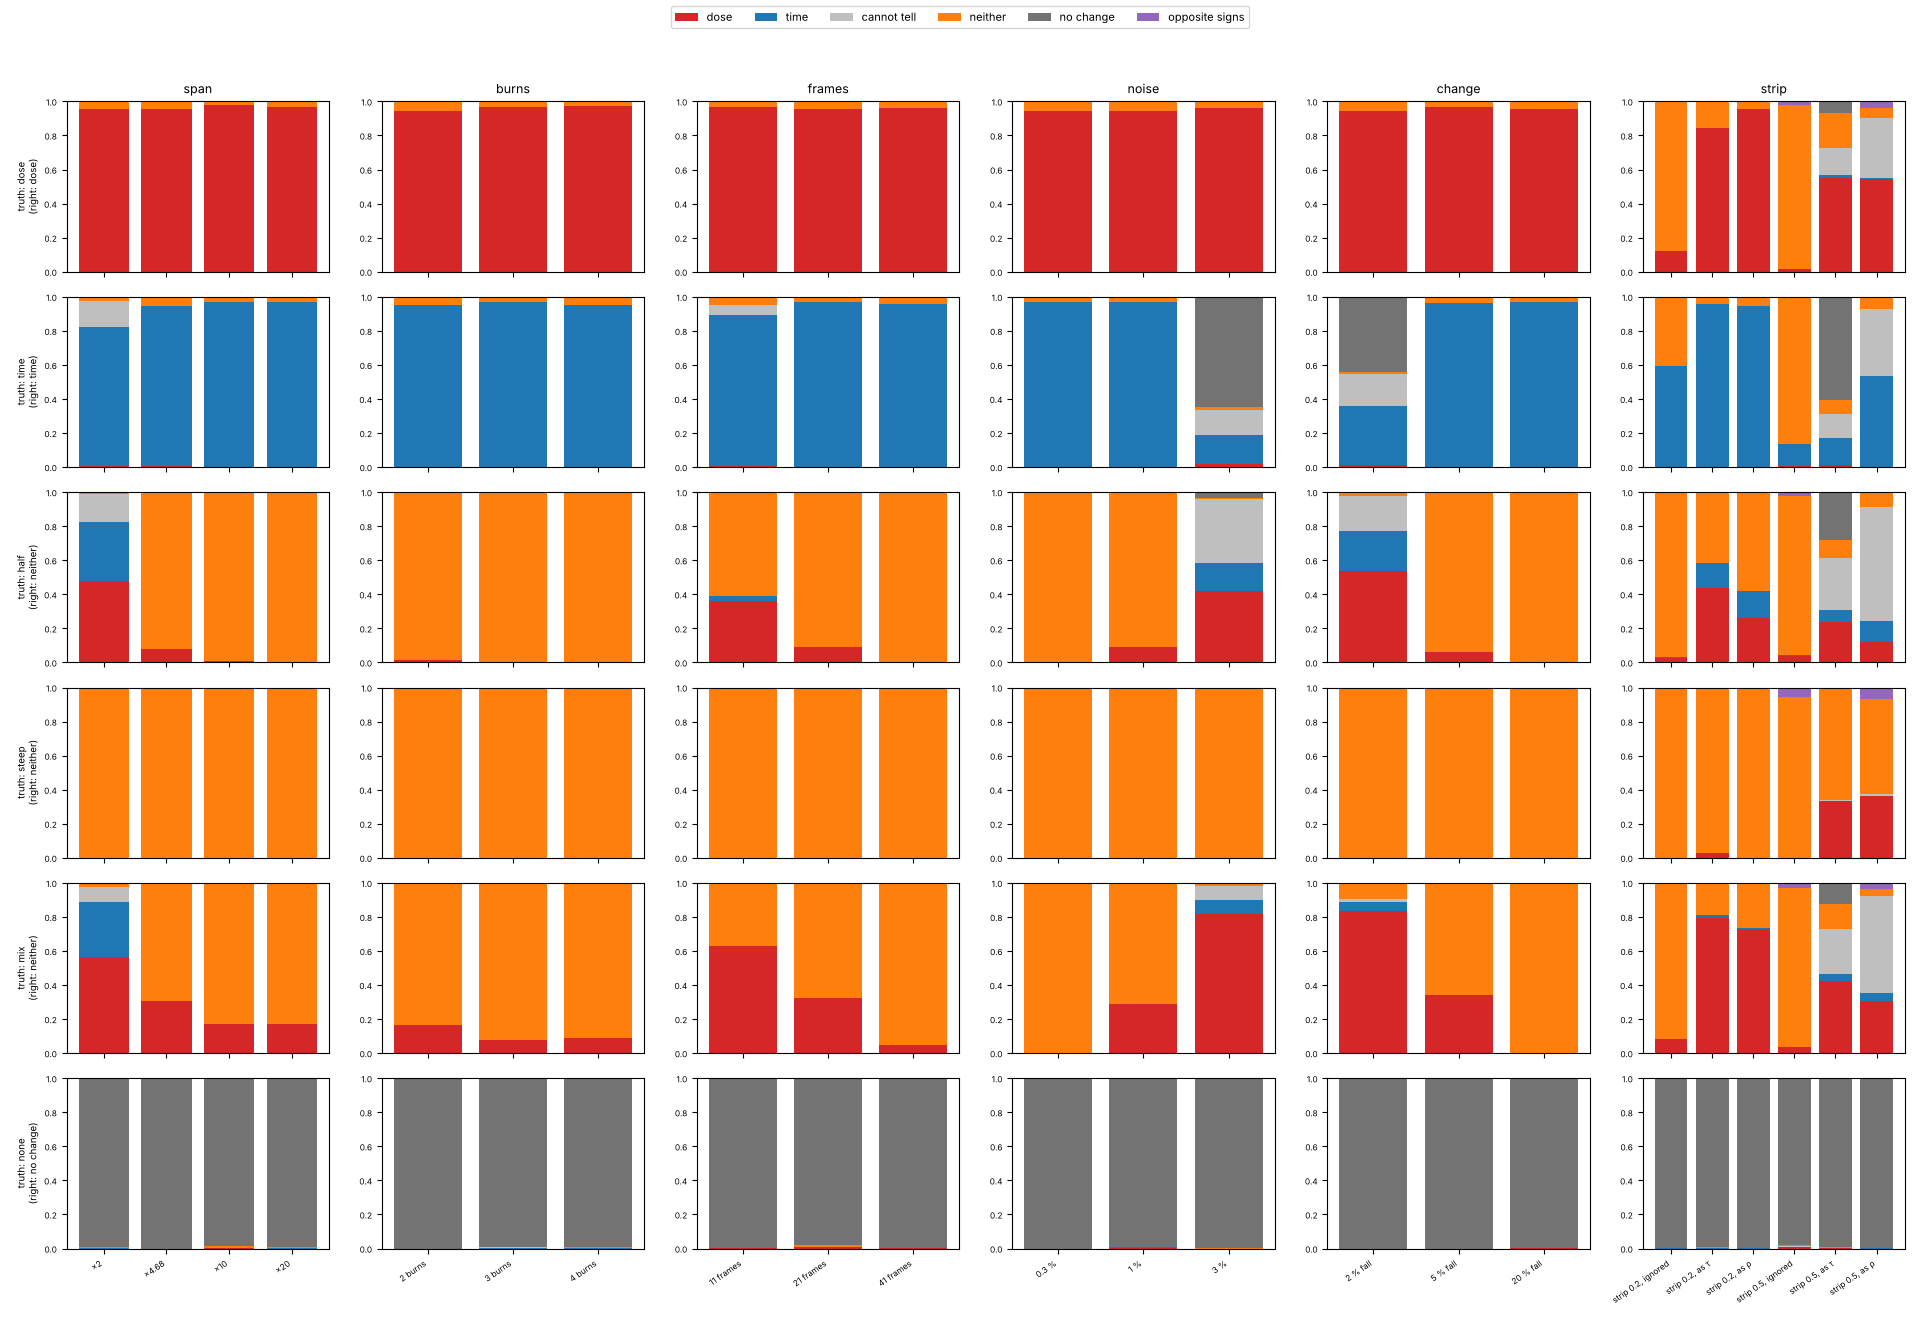
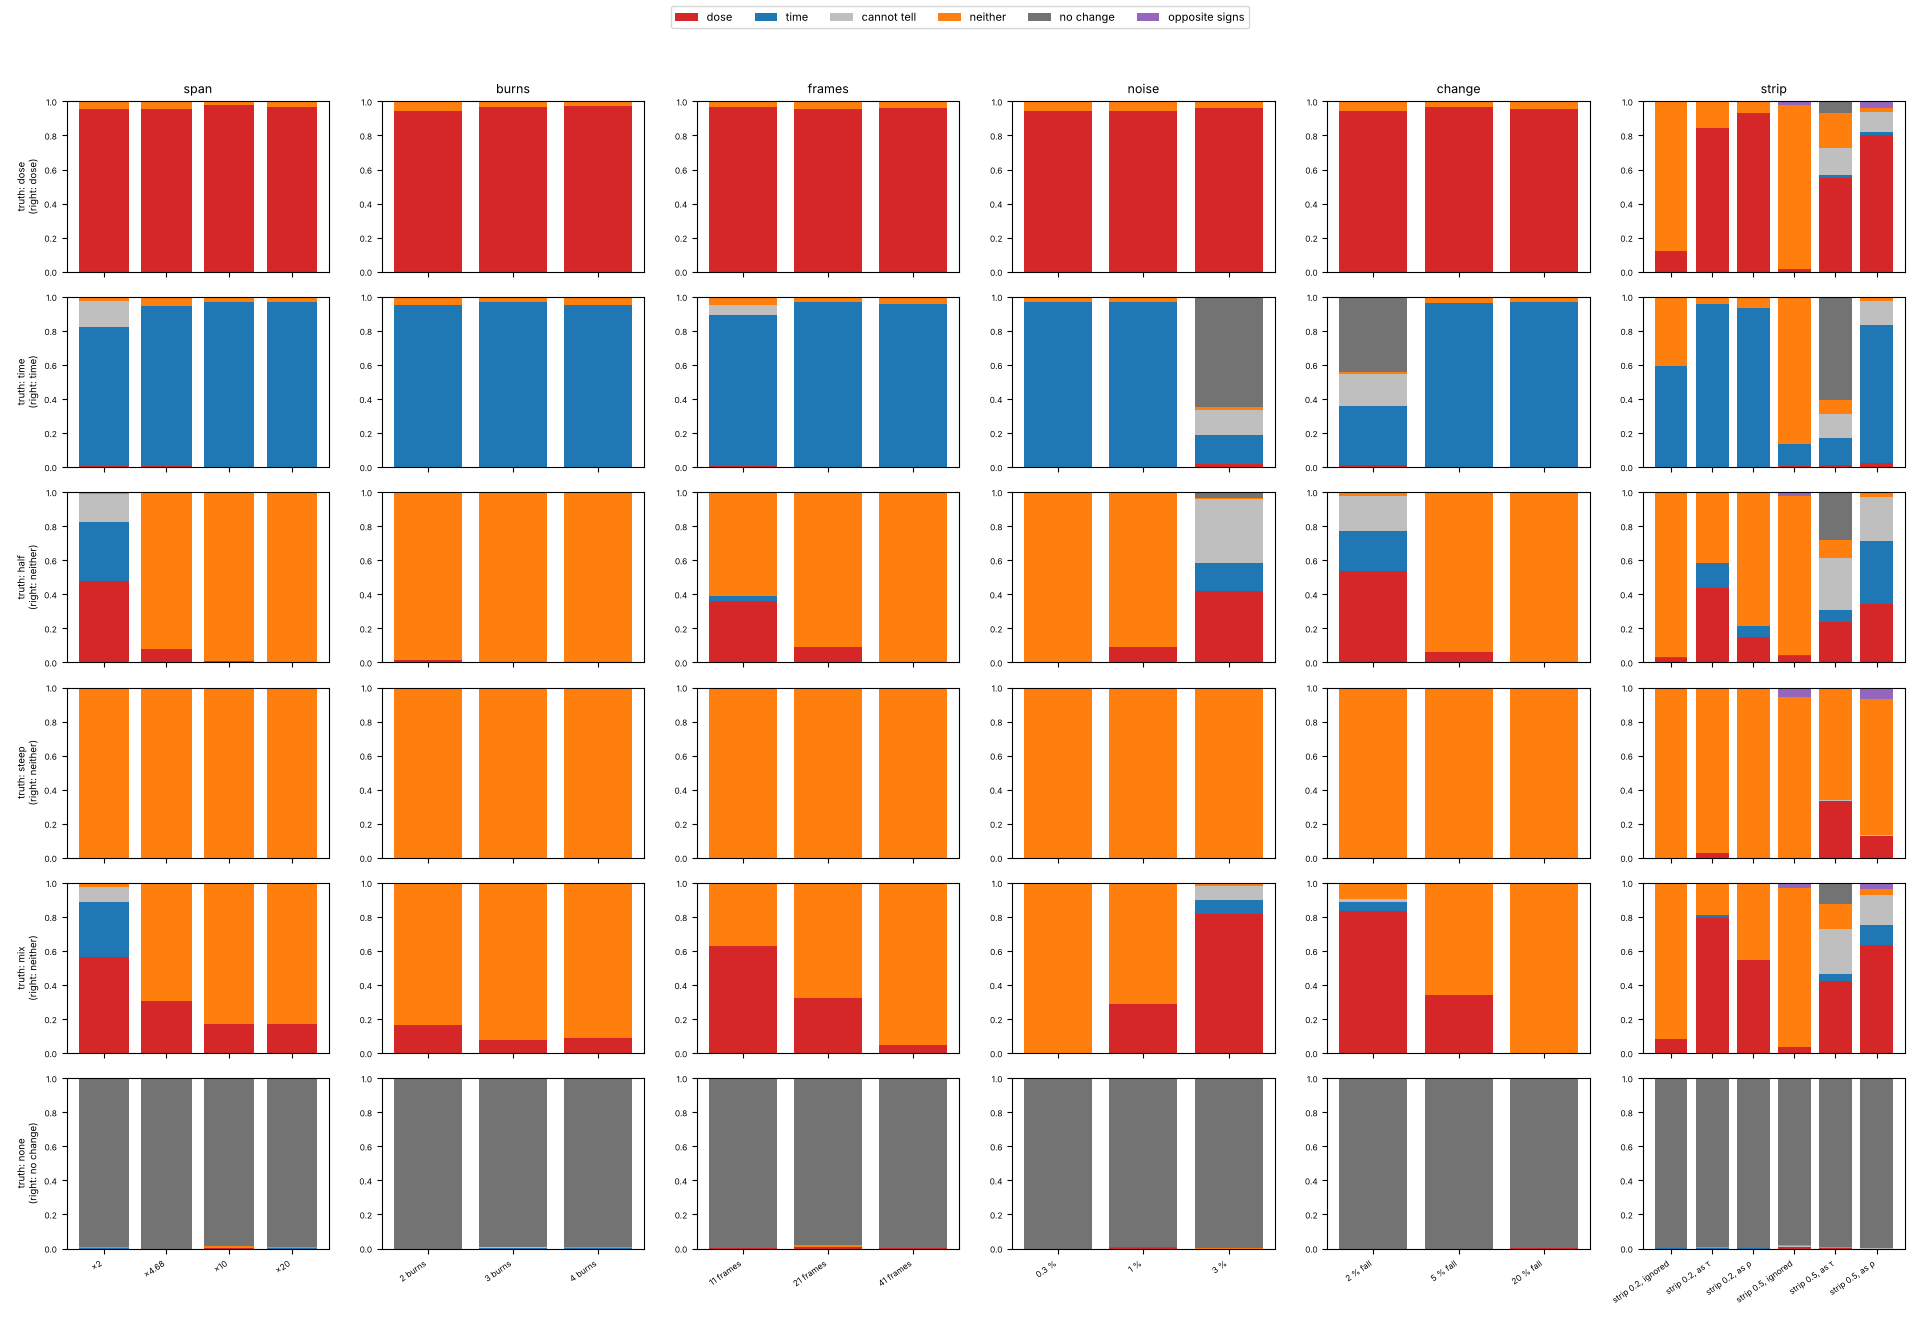
reciprocity: with a relative strip scatter, k by maximum likelihood and likelihood-ratio verdicts
The variance with rho (rho k phi^beta) depends on the model. k was
fitted by least squares reweighted on chi2 alone, which can shrink chi2
by inflating k's own variance: harmless at rho 0.2, misleading at C54's
rho of about 1.1 (R11-S1, 7 real burns: 0.72 [0.68, 0.76]; now 0.52
[0.16, 0.96]). Now, with rho:
- k minimises -2 log L = sum (r - k x)^2 / v + sum log v (a vectorised
  search about the least-squares k);
- beta and its intervals come from that deviance;
- p_dose and p_time are likelihood-ratio p-values against the best beta,
  so 'dose' means beta = 1 inside the 95 % interval and beta = 0 outside
  (the Pearson chi2 at the likelihood's k is not chi2(n - 1)).
Without rho nothing changes (counting and tau rows byte for byte).

The study rerun (docs/studies/reciprocity, section 2): only its "as rho"
rows change. At 20 %: dose 0.96 -> 0.93, time 0.94 -> 0.93, beta 0.5
0.58 -> 0.79; at 50 %: dose 0.55 -> 0.80, time 0.53 -> 0.81; coverage
0.66-0.73 -> 0.61-0.69. OUTPUT_DECISIONS row. The study takes about
1.5 min now (catalogue).
Test: the single-seed 95 % check (missed by 0.01 now, as a 95 % interval
should 1 time in 20) replaced by coverage over 60 seeds (0.95 measured,
at least 53 of 60 required); R11-S1's interval at rho 1.13 wider than
0.5 (before 0.08).

Claude-Session: https://claude.ai/code/session_017UNj92oeebHHmBzfCF19ve

diff --git a/lss_core/reciprocity.py b/lss_core/reciprocity.py
@@ -136,19 +136,46 @@ class Verdict:
 
 
 def _profile(phi, r, s, grid, rho=0.0, iterations=3):
-    """χ²(β) with k fitted at every β (closed form), and k(β). ``rho``: a
-    relative strip scatter, added to each burn's error as ρ × the model's
-    rate k(β) φ^β (iterated, since k depends on the errors)."""
+    """(χ², k, deviance) at every β of ``grid``, with k fitted at every β.
+
+    ``rho`` 0: k by weighted least squares (closed form); the deviance is
+    χ². ``rho`` > 0, a relative strip scatter (variance s² + (ρ k φ^β)²,
+    which depends on the model): k by maximum likelihood, minimising
+    −2 log L = Σ (r − kφ^β)²/v + Σ log v. The deviance (−2 log L less
+    Σ log s²) gives β̂ and its intervals; χ² (the Pearson sum at that k)
+    gives the p-values. Before 2026-11-25, k was fitted by reweighted least
+    squares on χ² alone, which can shrink χ² by inflating k's own variance:
+    harmless at ρ 0.2, misleading at C54's ρ ≈ 1.1 (an interval on one real
+    series narrower than with counting errors alone). ``iterations`` is
+    kept for callers; the search does not use it."""
     x = phi[None, :] ** grid[:, None]
     s2 = np.broadcast_to(s ** 2, x.shape)
     w = 1.0 / s2
-    for _ in range(iterations if rho else 1):
-        k = np.sum(w * x * r, axis=1) / np.sum(w * x * x, axis=1)
-        if rho:
-            w = 1.0 / (s2 + (rho * k[:, None] * x) ** 2)
     k = np.sum(w * x * r, axis=1) / np.sum(w * x * x, axis=1)
-    chi2 = np.sum(w * (r - k[:, None] * x) ** 2, axis=1)
-    return chi2, k
+    if not rho:
+        chi2 = np.sum(w * (r - k[:, None] * x) ** 2, axis=1)
+        return chi2, k, chi2
+    # k by a search on a multiplicative grid about the least-squares k (its sign kept), then a finer one
+    base = np.where(k != 0, k, 1e-300)
+
+    def dev_of(m):                                         # m: (n_beta, n_m) multipliers of base
+        kk = base[:, None] * m
+        v = s2[:, None, :] + (rho * kk[:, :, None] * x[:, None, :]) ** 2
+        res = r[None, None, :] - kk[:, :, None] * x[:, None, :]
+        return np.sum(res ** 2 / v + np.log(v / s2[:, None, :]), axis=2)
+    m = np.broadcast_to(np.logspace(-2, 2, 161), (len(grid), 161))
+    d = dev_of(m)
+    j = np.argmin(d, axis=1)
+    step = np.log(10) * 4 / 160
+    centre = np.log(m[np.arange(len(grid)), j])
+    fine = np.exp(centre[:, None] + np.linspace(-step, step, 41)[None, :])
+    d2 = dev_of(fine)
+    j2 = np.argmin(d2, axis=1)
+    kbest = base * fine[np.arange(len(grid)), j2]
+    v = s2 + (rho * kbest[:, None] * x) ** 2
+    chi2 = np.sum((r - kbest[:, None] * x) ** 2 / v, axis=1)
+    dev = d2[np.arange(len(grid)), j2]
+    return chi2, kbest, dev
 
 
 def _pooled_z(phi, r, sr, tau, rho, x, k, beta):
@@ -196,7 +223,11 @@ def dose_or_time(burns, strip_scatter=0.0, strip_relative=0.0, significance=SIGN
     same as a fraction of each burn's rate (the model's, k φ^β), for a
     scatter that grows with the rate, as C54 suspected the real one does
     ("far too large for the slowly changing series and maybe too small for
-    the fast ones"); the study (docs/studies/reciprocity) compares them."""
+    the fast ones"); the study (docs/studies/reciprocity) compares them.
+    With ρ the fit is by maximum likelihood and ``p_dose``, ``p_time`` are
+    likelihood-ratio p-values against the best β (2026-11-25), so 'dose'
+    means β = 1 inside the 95 % interval and β = 0 outside; without ρ they
+    are goodness-of-fit p-values at the fixed β, as C54's."""
     burns = [from_result(b) if not isinstance(b, Burn) else b for b in burns]
     if len(burns) < 2:
         raise ValueError('the test compares two or more burns at different fluxes')
@@ -228,13 +259,19 @@ def dose_or_time_rates(fluxes, rates, sigmas, labels=None, strip_scatter=0.0, st
     z = r / s
     gm = float(np.exp(np.mean(np.log(phi))))
     x = phi / gm                                            # fluxes about their geometric mean
-    chi2, k = _profile(x, r, s, grid, strip_relative)
+    pearson, k, chi2 = _profile(x, r, s, grid, strip_relative)        # chi2: the deviance (χ² when ρ is 0)
     i = int(np.argmin(chi2))
     beta = float(grid[i])
     ci, ci95 = _interval(grid, chi2, 1.0), _interval(grid, chi2, 3.84)
     n = len(phi)
-    c1, c0 = (float(_profile(x, r, s, np.array([v]), strip_relative)[0][0]) for v in (1.0, 0.0))
-    p1, p0 = _p(c1, n - 1), _p(c0, n - 1)
+    if strip_relative:
+        # a variance that depends on the model: likelihood-ratio tests of β = 1 and β = 0 (the verdict
+        # follows the 95 % interval), since the Pearson χ² at the likelihood's k is not χ²(n − 1)
+        c1, c0 = (float(_profile(x, r, s, np.array([v]), strip_relative)[2][0]) for v in (1.0, 0.0))
+        p1, p0 = _p(max(c1 - float(chi2[i]), 0.0), 1), _p(max(c0 - float(chi2[i]), 0.0), 1)
+    else:
+        c1, c0 = (float(_profile(x, r, s, np.array([v]), strip_relative)[0][0]) for v in (1.0, 0.0))
+        p1, p0 = _p(c1, n - 1), _p(c0, n - 1)
     m = min(c0, c1)
     wd = float(math.exp(-(c1 - m) / 2) / (math.exp(-(c1 - m) / 2) + math.exp(-(c0 - m) / 2)))
     z = _pooled_z(phi, r, sr, strip_scatter, strip_relative, x, k[i], beta)

diff --git a/tests/test_reciprocity.py b/tests/test_reciprocity.py
@@ -59,7 +59,6 @@ def test_strip_scatter_and_refusals():
     assert 'strip scatter' in widened.note
     relative = R.dose_or_time(burns, strip_relative=0.3)     # the scatter as a share of each rate (the truth's form)
     assert relative.p_dose > plain.p_dose and '30 % of the rate' in relative.note
-    assert relative.beta_ci95[0] <= 1.0 <= relative.beta_ci95[1]       # the 95 % interval holds the truth
     with pytest.raises(ValueError):
         R.dose_or_time(burns[:1])
     same = [R.Burn(b.t, b.y, b.sigma, 1.0) for b in burns[:2]]
@@ -109,6 +108,33 @@ def test_rates_in_and_the_strip_scatter_from_repeats():
     with pytest.raises(ValueError):
         R.strip_scatter_fit([[(1.0, 1.0)]])
 
+
+def test_relative_strip_scatter_by_likelihood():
+    """With ρ, k is fitted by maximum likelihood (the variance depends on
+    the model): reweighted least squares on χ² alone could shrink χ² by
+    inflating k's own variance (2026-11-25). The 95 % interval covers the
+    truth at its rate (this replaces one seed's check, which the new fit
+    misses by 0.01 as a 95 % interval should 1 time in 20; measured 0.95
+    over 60 seeds), and C54's real series R11-S1 (7 burns, ×14.6, the
+    public derived rates) no longer gets an interval of 0.08 at ρ 1.13,
+    with strips that differ by about their own rate (before: 0.72
+    [0.68, 0.76]; now 0.52 [0.16, 0.96])."""
+    cover = 0
+    for seed in range(60):
+        burns, _ = bp.series(beta=1.0, fluxes=(1.0, 2.0, 4.0, 8.0), change=0.1, noise=0.001, strip=0.3, seed=seed)
+        v = R.dose_or_time(burns, strip_relative=0.3)
+        cover += v.beta_ci95[0] <= 1.0 <= v.beta_ci95[1]
+    assert cover >= 53                                       # 0.95 expected; 0.88 is 2.5 binomial SD below
+    import csv
+    path = os.path.join(ROOT, 'docs', 'studies', 'xr_burns', 'burns.csv')
+    with open(path, encoding='utf-8') as f:
+        rows = [r for r in csv.DictReader(ln for ln in f if not ln.startswith('"#')) if r['series_id'] == 'R11-S1']
+    args = ([float(r['flux']) for r in rows], [float(r['rate_t_drop1']) for r in rows],
+            [float(r['rate_t_drop1_err']) for r in rows])
+    rho = R.dose_or_time_rates(*args, strip_relative=1.13)
+    assert rho.beta_ci[1] - rho.beta_ci[0] > 0.5                # before: 0.08 wide; now about 0.8
+
+
 def test_repeated_strips_at_one_flux_are_pooled():
     """Strips at one flux that rise and fall are the strip scatter, not two
     processes: with the scatter admitted, the 'opposite signs' rule looks
@@ -121,3 +147,4 @@ def test_repeated_strips_at_one_flux_are_pooled():
     assert calls.count('opposite signs') <= 3
     one, _ = bp.series(beta=1.0, fluxes=(1.0, 10.0), change=0.1, noise=0.003, seed=1)   # no repeats: as before
     assert R.dose_or_time(one).verdict == 'dose'
+

diff --git a/lss_toolbox/catalog.py b/lss_toolbox/catalog.py
@@ -225,7 +225,7 @@ TOOLS = (
              V('More replicates (1000)', 'Every design with 1000 replicates (about 2 min).',
                'docs/studies/reciprocity/summary.md## 1. How often is each truth called right?', replicates='1000'),
          ),
-         repo_out='docs/studies/reciprocity', repo_ok=False, seconds=35.0),
+         repo_out='docs/studies/reciprocity', repo_ok=False, seconds=85.0),
 
     Tool('burn_dose_figure', 'Burns against dose: damage or a changing sample?', 'burn', 'figures',
          'tests/tools/burn_dose_figure.py',

diff --git a/docs/studies/reciprocity/summary.md b/docs/studies/reciprocity/summary.md
@@ -9,7 +9,7 @@ offered to scripts; the window's several-burns view is the GUI manager's
 
 **Regenerate:**
 
-    python tests/tools/reciprocity_study.py --out docs/studies/reciprocity        # about 35 s
+    python tests/tools/reciprocity_study.py --out docs/studies/reciprocity        # about 1.5 min
 
 The code is `lss_core/reciprocity.py` (`dose_or_time`, `from_result`,
 `drift_rate`); its tests are `tests/test_reciprocity.py`; the synthetic
@@ -101,10 +101,10 @@ Four burns over ×8, the rate of each strip off by a random 20 % or 50 %
 |---|---|---|---|---|---|---|
 | 20 %, ignored | **0.12** | 0.59 | 0.97 | 1.00 | 0.92 | 1.00 |
 | 20 %, as one τ | 0.84 | 0.96 | 0.42 | 0.97 | 0.19 | 0.99 |
-| 20 %, as ρ | **0.96** | **0.94** | 0.58 | 1.00 | 0.27 | 1.00 |
+| 20 %, as ρ | **0.93** | **0.93** | 0.79 | 1.00 | 0.45 | 1.00 |
 | 50 %, ignored | 0.02 | 0.13 | 0.94 | 0.95 | 0.94 | 0.98 |
 | 50 %, as one τ | 0.55 | 0.16 | 0.11 | 0.65 | 0.14 | 0.99 |
-| 50 %, as ρ | 0.55 | 0.53 | 0.08 | 0.56 | 0.04 | 1.00 |
+| 50 %, as ρ | **0.80** | **0.81** | 0.02 | 0.80 | 0.04 | 1.00 |
 
 - **Ignoring a real strip scatter wrecks the test.** The pure laws fail on
   rates that scatter beyond their counting, and nearly everything becomes
@@ -112,15 +112,27 @@ Four burns over ×8, the rate of each strip off by a random 20 % or 50 %
   finding: with counting errors alone, 8 of its 19 real series were
   "neither".
 - **Admitting it in the right form restores the calls and the
-  calibration.** As ρ, the pull SD of β̂ is 1.0–1.06 and the coverage
-  0.66–0.73. As one constant τ (the scatter at the median rate), the fast
+  calibration.** As ρ, the pull SD of β̂ is 1.03–1.09 and the coverage
+  0.66–0.69 (0.68 ideal). As one constant τ (the scatter at the median rate), the fast
   burns get too little and the slow ones too much (pull SD 1.4–1.5,
   coverage 0.52). C54 used one constant and noted it "is far too large for
   the slowly changing series and maybe too small for the fast ones"; the
   relative form answers that.
-- **At 50 % even four burns over ×8 mostly cannot tell** (about half the
-  dose and time truths called right, the rest "cannot tell"). That is the
-  data's limit, not the test's.
+- **At 50 %, four burns over ×8 still tell dose from time** (0.80 and
+  0.81 called right, the other law at most 0.03), but not a dose-rate
+  effect: β = 0.5 is then called dose or time in 0.71 of replicates, its
+  interval reaching one of them. A steep β = 2 is called right in 0.80, with
+  its pulls spoilt (SD 3.6) by intervals cut at the grid's edge.
+- **The ρ rows changed on 2026-11-25.** The variance ρ k φ^β depends on
+  the model, so k is now fitted by maximum likelihood, and the verdict uses
+  likelihood-ratio tests: 'dose' means β = 1 inside the 95 % interval and
+  β = 0 outside. Before, k was fitted by least squares reweighted on χ²
+  alone, which can shrink χ² by inflating k's own variance, and the
+  verdicts used goodness-of-fit p-values. At 20 %, before → after: dose
+  0.96 → 0.93, time 0.94 → 0.93, β 0.5 0.58 → 0.79. At 50 %: dose 0.55 →
+  0.80, time 0.53 → 0.81. Coverage 0.66–0.73 → 0.61–0.69. The τ rows and
+  every other section are unchanged (rerun, byte for byte apart from the ρ
+  rows). The reason it mattered: C54's real strips scatter by about their own rate (ρ ≈ 1.1).
 
 ## 3. Few frames, little change
 

diff --git a/docs/OUTPUT_DECISIONS.md b/docs/OUTPUT_DECISIONS.md
@@ -86,6 +86,7 @@ Each is also in `physics_notes.md` under its date.
 
 | Date | Change | Before → after | Who decided |
 |---|---|---|---|
+| 2026-11-25 | `reciprocity.dose_or_time` with `strip_relative` (ρ): k fitted by maximum likelihood (the variance ρ k φ^β depends on the model), β and its intervals from the deviance, and the verdict by likelihood-ratio tests (dose: β = 1 inside the 95 % interval, β = 0 outside) | before: k by least squares reweighted on χ², goodness-of-fit p-values. Study rows "as ρ", four burns over ×8 (300 replicates): at 20 %, dose 0.96 → 0.93, time 0.94 → 0.93, β 0.5 0.58 → 0.79; at 50 %, dose 0.55 → 0.80, time 0.53 → 0.81; coverage 0.66–0.73 → 0.61–0.69. C54's R11-S1 at ρ 1.13: 0.72 [0.68, 0.76] → 0.52 [0.16, 0.96]. Without ρ nothing changes (τ and counting rows byte for byte) | tools man (measurement: `docs/studies/reciprocity/summary.md` §2 and §6) |
 | 2026-11-25 | `reciprocity.dose_or_time`: burns at one flux (repeated strips) pooled by weighted mean, with the strip scatter, for the 'no change' and 'opposite signs' rules | before: each strip on its own, so strips at one flux that rose and fell made 'opposite signs' (72 % of seeds, 4 strips per flux at ρ 1); after 0 %. Burns alone at their flux unchanged | tools man (measurement, `tests/test_reciprocity.py`) |
 | 2026-11-25 | Ref Patch keeps a finished patch's drops as the workbook's mask and leaves the masked points out of the next patch of those scans from the start (F92; Restore all in the patch window clears them) | before: drops were forgotten when the patch window closed, so the next Ref Patch of the same frames used every point; now it leaves out the points dropped before (the curve then equals the earlier patch's wherever no earlier join's fit used the point, I40; measured equal to 1e-12 on the synthetic set) | owner 2026-11-23 (F92) |
 | 2026-11-25 | Cuts (F97, F59): a cut's x axis can be β, β − α (α from Qz), Qz or Qxy (`cutAxisComboBox`; intensities unchanged, I41); the cut plot's x label is the axis the cut is on (`cuts.axis_label`); a Q range off the detector on every selected frame is refused with a message instead of cut; with frames shown, the Q cuts' default range is a band about the beam | x columns of cut files only when a diffuse axis is chosen (default "as the image": unchanged); labels: a pixel cut on Angles or Q axes was labelled "Pixels" (now β, 2θ, Qz or Q), a Q H cut "Qxy" (now "Q (Å⁻¹)", the window's 4π sin θ/λ, equal to Qxy to 1e-5 at 0.1°); a range off the detector gave zeros (now a message, no cut); defaults '0:1', '1:2' → e.g. '-0.004526:0.02453' (Qz, synthetic frame at Qz 0.01) | owner Q-IMG-12 (axes); the range defaults and the refusal are this project's (F59) |

diff --git a/docs/TOOLS.md b/docs/TOOLS.md
@@ -56,7 +56,7 @@ container on 2026-11-23 with the defaults shown.
 | [Burn line-cut demonstrator (window)](#patch-demo-burn) | window | GID line cuts of one spot over time: every burn estimator (template, moments, fit) against the known change; space bar for a new noise replicate. | synthetic (public) |  | — |
 | [Burn estimators: survey over replicates](#patch-demo-burn-survey) | text | Every burn estimator over many noise replicates of a synthetic burn: the change it reads against the truth (bias, scatter) and how often it calls a quantity stable. | synthetic (public) | 19 s | — |
 | [Burn trends of NX scans 14 and 15](#burn-figures) | figures | Burn tests over time as the Trends tab draws them (every model, the confident 5 % time) for the template and legacy moments estimators, and the three estimators compared. | public (NX school or committed tables) | 5 s | `docs/figures/burn_trends`<br>`docs/comparisons_data/burn_nx` |
-| [Beam damage or the sample by itself? The dose-or-time test (F76)](#reciprocity-study) | figures | Synthetic burns at several fluxes with a known law (the dose, time, a dose-rate effect, a mixture, no change) and strip-to-strip scatter: how often lss_core.reciprocity calls each truth right, beta's pulls, and NX school burns 14 and 15: figures R1-R5. | public (NX school or committed tables) | 35 s | `docs/studies/reciprocity` |
+| [Beam damage or the sample by itself? The dose-or-time test (F76)](#reciprocity-study) | figures | Synthetic burns at several fluxes with a known law (the dose, time, a dose-rate effect, a mixture, no change) and strip-to-strip scatter: how often lss_core.reciprocity calls each truth right, beta's pulls, and NX school burns 14 and 15: figures R1-R5. | public (NX school or committed tables) | 85 s | `docs/studies/reciprocity` |
 | [Burns against dose: damage or a changing sample?](#burn-dose-figure) | figures | NX burn scans 14 and 15 (absorbers 12 and 8) against clock time and against dose (Σ Monc × foil transmission): a beam-driven change coincides against dose, a sample changing by itself against time. | NX school by default; any SPEC file | 3 s | `docs/figures/burn_dose` |
 
 ### Reflectivity patching
